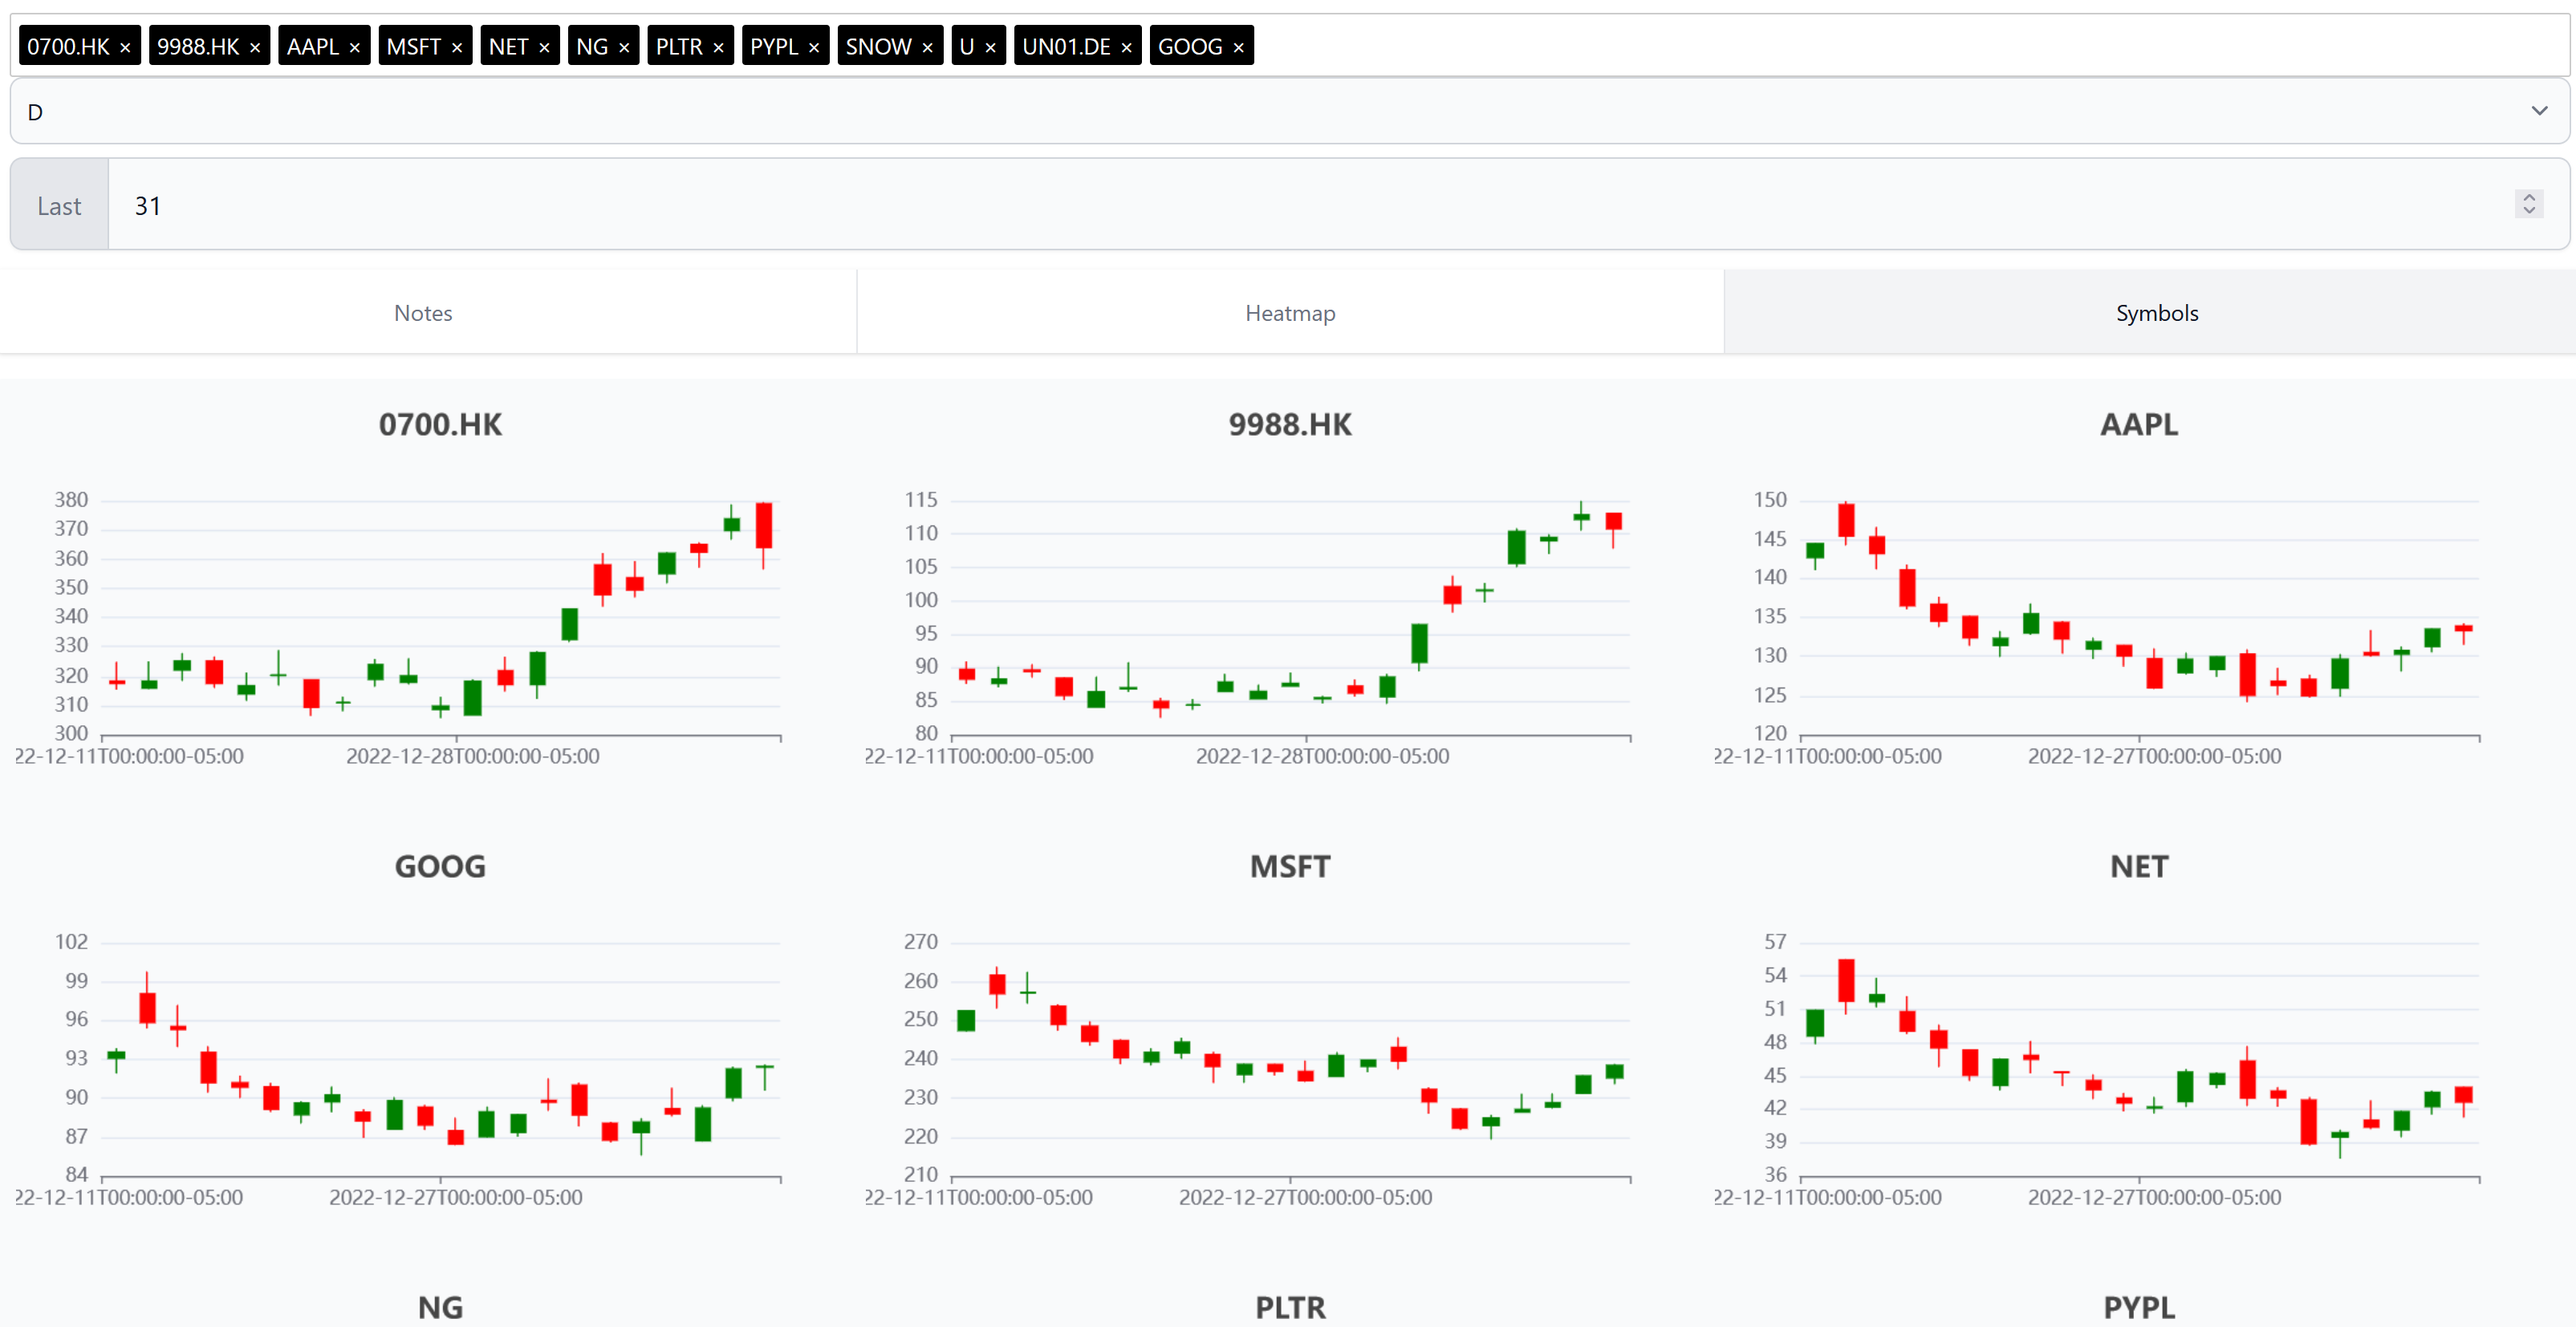
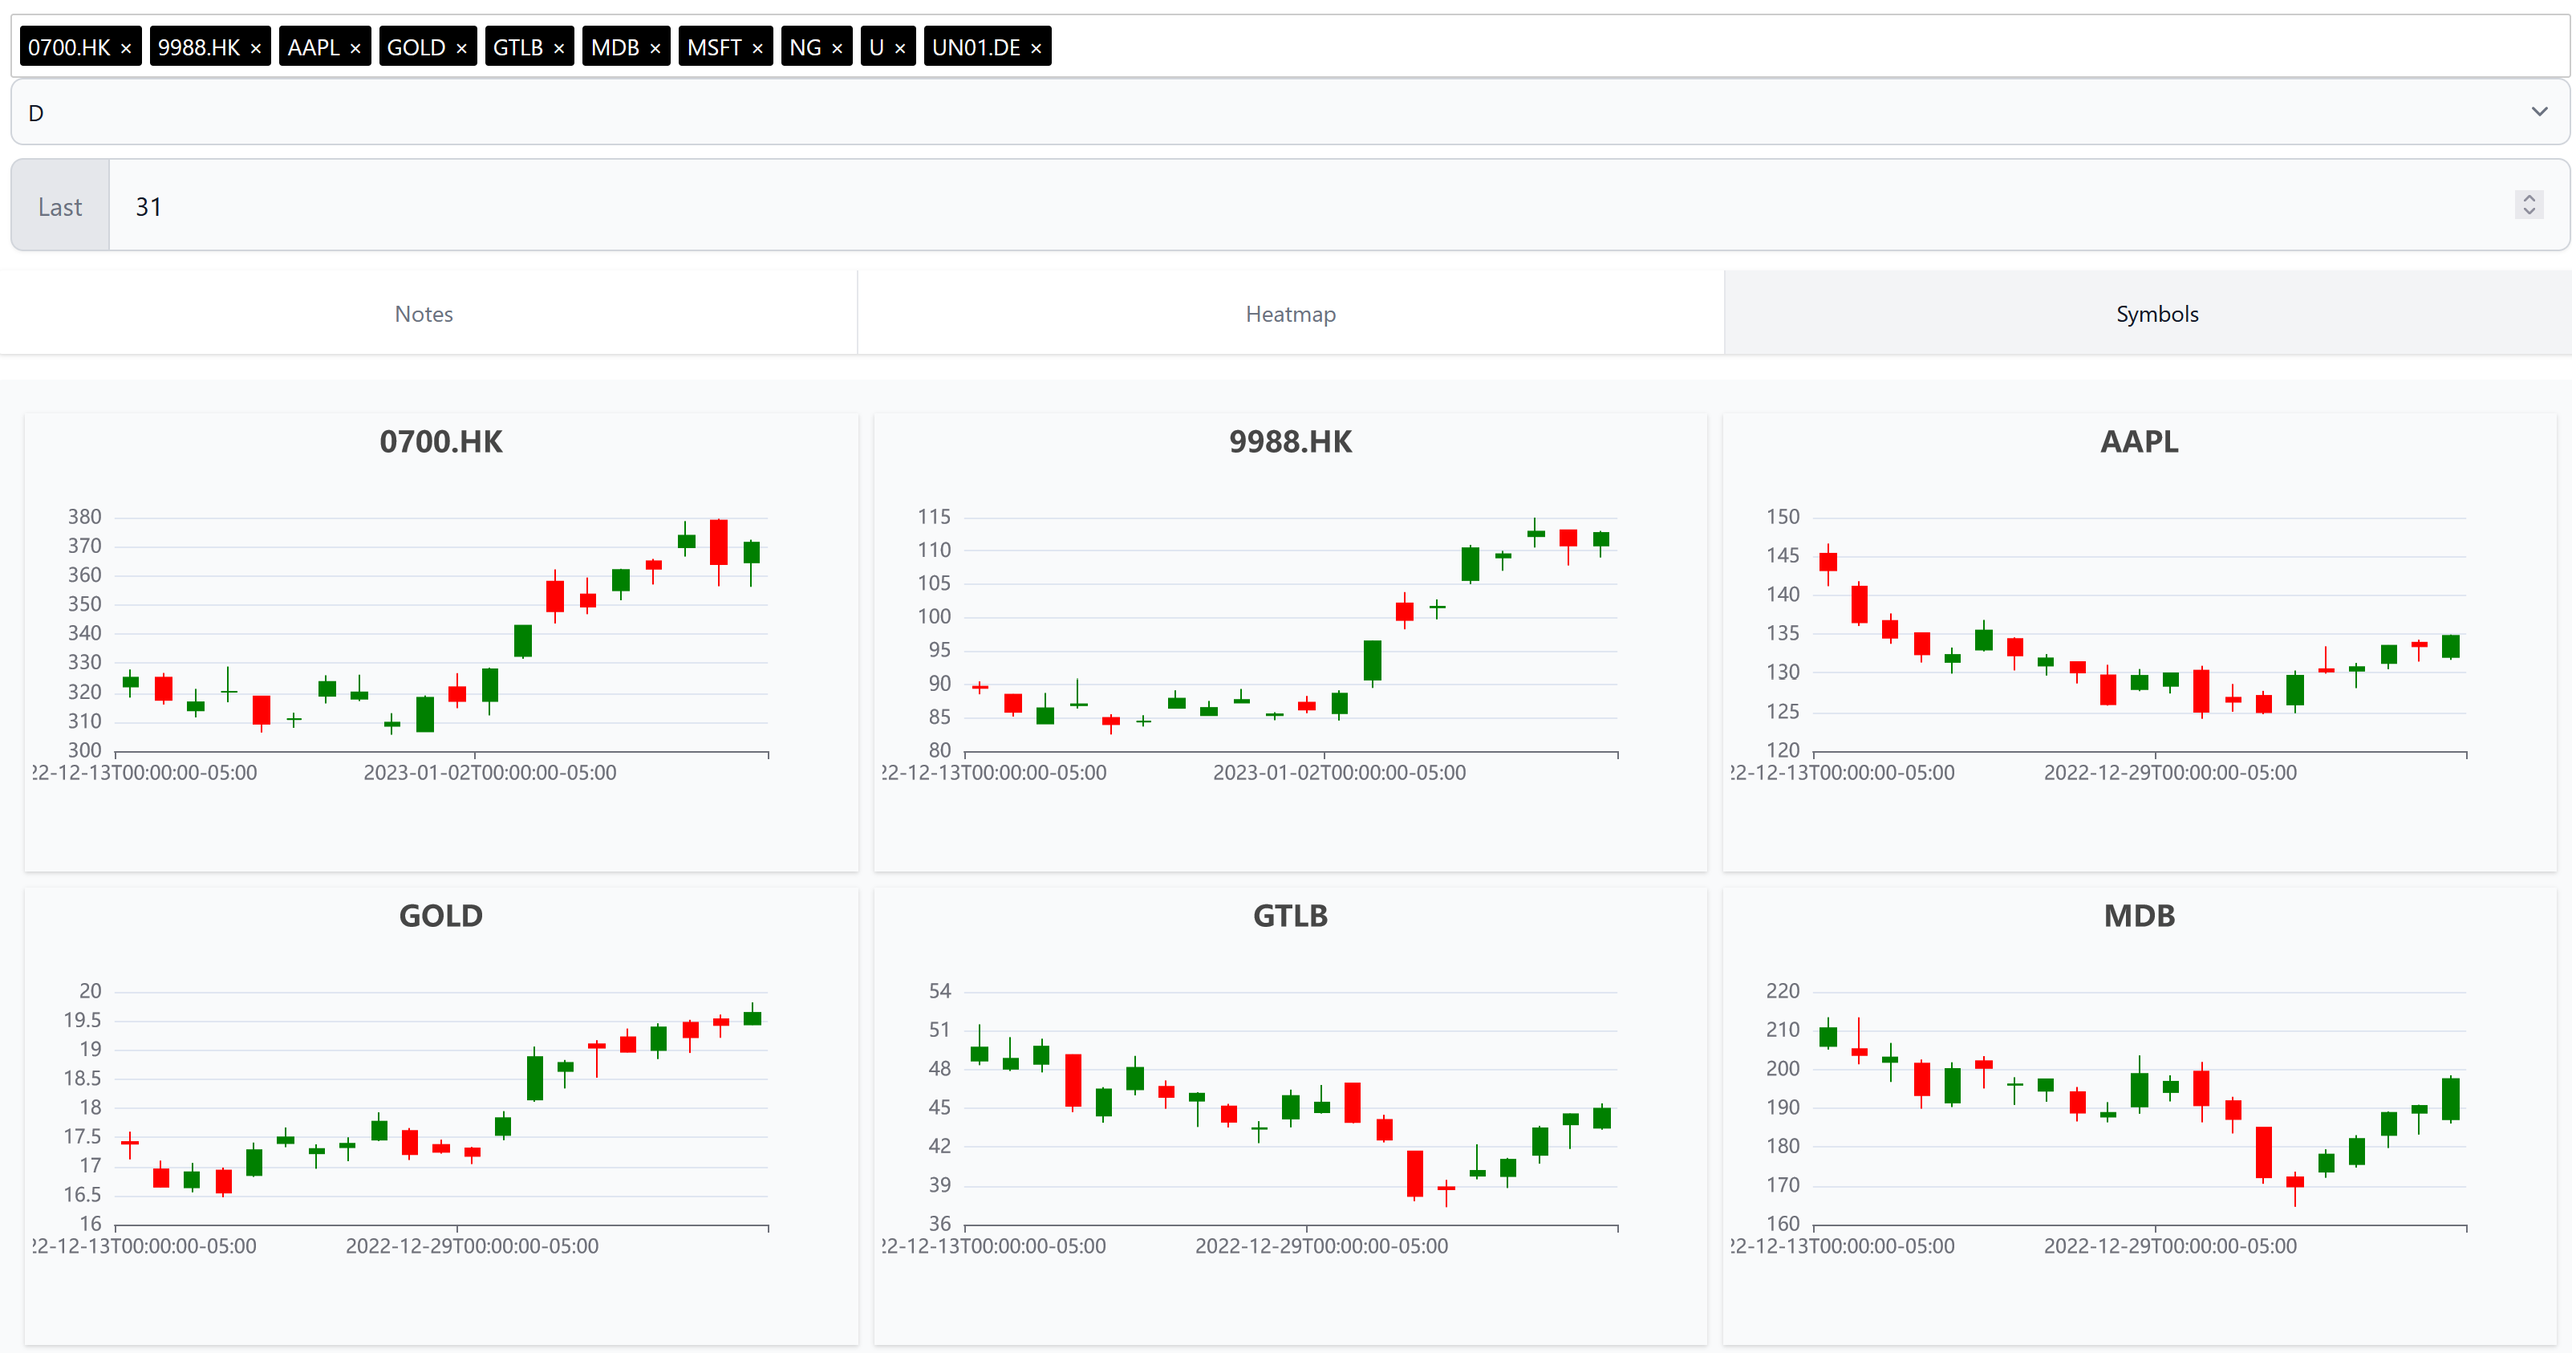
feat: lightweight charts support for candlestick plot
* feat: installed lightweight-charts

* feat: added lightweight charts candles sticks plot

* cleaner candlestick preview

* fix: updated images

* chore(release): 0.9.0

diff --git a/components/src/lib/components/candles.svelte b/components/src/lib/components/candles.svelte
@@ -1,7 +1,15 @@
 <script lang="ts">
-	import { candlesOptions } from '$lib/charts/candles';
+	import { candles, type Candle } from '$lib/api/client';
+	import { calcLast } from '$lib/charts/timestamp';
+	import {
+		createChart,
+		type BarData,
+		type CandlestickData,
+		type HistogramData,
+		type IChartApi,
+		type Time
+	} from 'lightweight-charts';
 	import { onMount } from 'svelte';
-	import Chart from './chart.svelte';
 
 	export let upColor: string = 'green';
 	export let downColor: string = 'red';
@@ -11,11 +19,73 @@
 	export let from: number = 0;
 	export let to: number = 0;
 
-	let option: any;
+	let chartElement: HTMLDivElement;
+	let chart: IChartApi;
+	let loaded: boolean = false;
 
 	onMount(async function () {
-		option = await candlesOptions(upColor, downColor, symbol, resolution, last, from, to);
+		if (loaded) {
+			return;
+		}
+		if (last !== 0) {
+			const fromTo = calcLast(resolution, last);
+			from = fromTo.from;
+			to = fromTo.to;
+		}
+		const cs: Candle[] = await candles(symbol, resolution, from, to);
+		const chartOptions = {
+			rightPriceScale: {
+				// positioning the price scale for the area series
+				scaleMargins: {
+					top: 0.1,
+					bottom: 0.4
+				},
+				borderVisible: false
+			}
+		};
+		chart = createChart(chartElement, chartOptions);
+		const priceSeries = chart.addCandlestickSeries();
+		priceSeries.setData(
+			cs.map((candle: Candle): CandlestickData => {
+				const candleColor: string = candle.open < candle.close ? upColor : downColor;
+				let result: CandlestickData = {
+					color: candleColor,
+					wickColor: candleColor,
+					borderColor: 'black',
+					open: candle.open,
+					close: candle.close,
+					low: candle.low,
+					high: candle.high,
+					time: candle.timestamp as Time
+				};
+				return result;
+			})
+		);
+		const volumeSeries = chart.addHistogramSeries({
+			color: '#26a69a',
+			priceFormat: {
+				type: 'volume'
+			},
+			priceScaleId: '', // set as an overlay by setting a blank priceScaleId
+			// set the positioning of the volume series
+			scaleMargins: {
+				top: 0.7, // highest point of the series will be 70% away from the top
+				bottom: 0
+			}
+		});
+		volumeSeries.setData(
+			cs.map((candle: Candle): HistogramData => {
+				const candleColor: string = candle.open < candle.close ? 'green' : 'red';
+				let result: HistogramData = {
+					color: candleColor,
+					value: candle.volume,
+					time: candle.timestamp as Time
+				};
+				return result;
+			})
+		);
+		loaded = true;
 	});
 </script>
 
-<Chart bind:option />
+<div class="w-full h-full" bind:this={chartElement} />

diff --git a/components/src/lib/components/dashboard/symbols.svelte b/components/src/lib/components/dashboard/symbols.svelte
@@ -9,7 +9,22 @@
 {#key symbols || resolution || last}
 	<div class="grid sm:grid-cols-1 md:grid-cols-3">
 		{#each symbols as symbol}
-			<SimpleCandles {symbol} bind:resolution bind:last height="275px" />
+			<div class="chart-preview">
+				<SimpleCandles {symbol} bind:resolution bind:last height="275px" />
+			</div>
 		{/each}
 	</div>
 {/key}
+
+<style>
+	.chart-preview {
+		padding: 5px;
+		transition: scale 0.5s;
+		margin: 5px;
+		box-shadow: rgba(0, 0, 0, 0.1) 0px 1px 3px 0px, rgba(0, 0, 0, 0.06) 0px 1px 2px 0px;
+	}
+
+	.chart-preview:hover {
+		scale: 1.01;
+	}
+</style>

diff --git a/components/src/routes/candles/+page.svelte b/components/src/routes/candles/+page.svelte
@@ -33,8 +33,18 @@
 	});
 </script>
 
-{#key loaded}
-	{#if loaded}
-		<Candles bind:upColor bind:downColor bind:symbol bind:resolution bind:last bind:from bind:to />
-	{/if}
-{/key}
+<div class="w-screen h-screen">
+	{#key loaded}
+		{#if loaded}
+			<Candles
+				bind:upColor
+				bind:downColor
+				bind:symbol
+				bind:resolution
+				bind:last
+				bind:from
+				bind:to
+			/>
+		{/if}
+	{/key}
+</div>

diff --git a/CHANGELOG.md b/CHANGELOG.md
@@ -2,6 +2,19 @@
 
 All notable changes to this project will be documented in this file. See [standard-version](https://github.com/conventional-changelog/standard-version) for commit guidelines.
 
+## [0.9.0](https://github.com/shoriwe/tulip/compare/v0.8.4...v0.9.0) (2023-01-14)
+
+
+### Features
+
+* added lightweight charts candles sticks plot ([cba6cbb](https://github.com/shoriwe/tulip/commit/cba6cbb38ed1a5a37113d01410a3f5806b66e523))
+* installed lightweight-charts ([0203123](https://github.com/shoriwe/tulip/commit/020312340f08fb20cb90c0a05a50eff62392a611))
+
+
+### Bug Fixes
+
+* updated images ([096a9c2](https://github.com/shoriwe/tulip/commit/096a9c27a4ce6de5422a00f09edb41a53ca601c7))
+
 ### 0.8.4 (2023-01-12)
 
 
